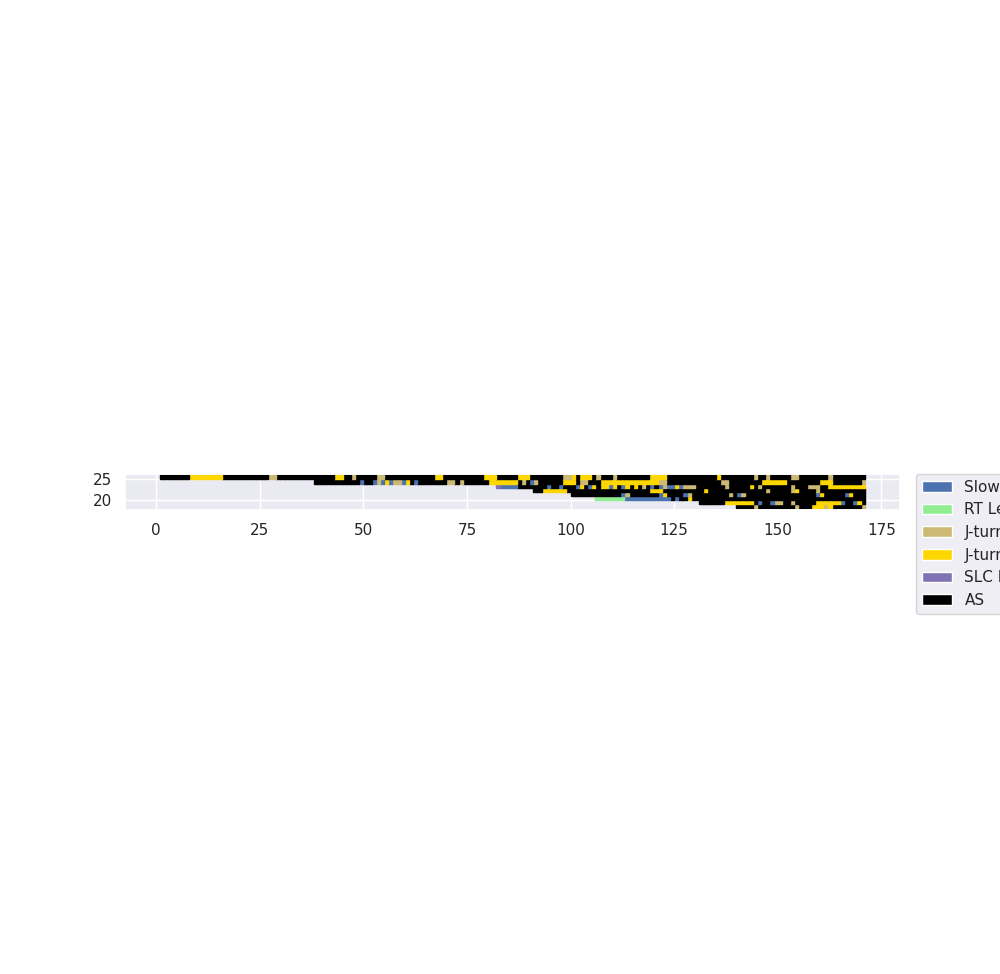
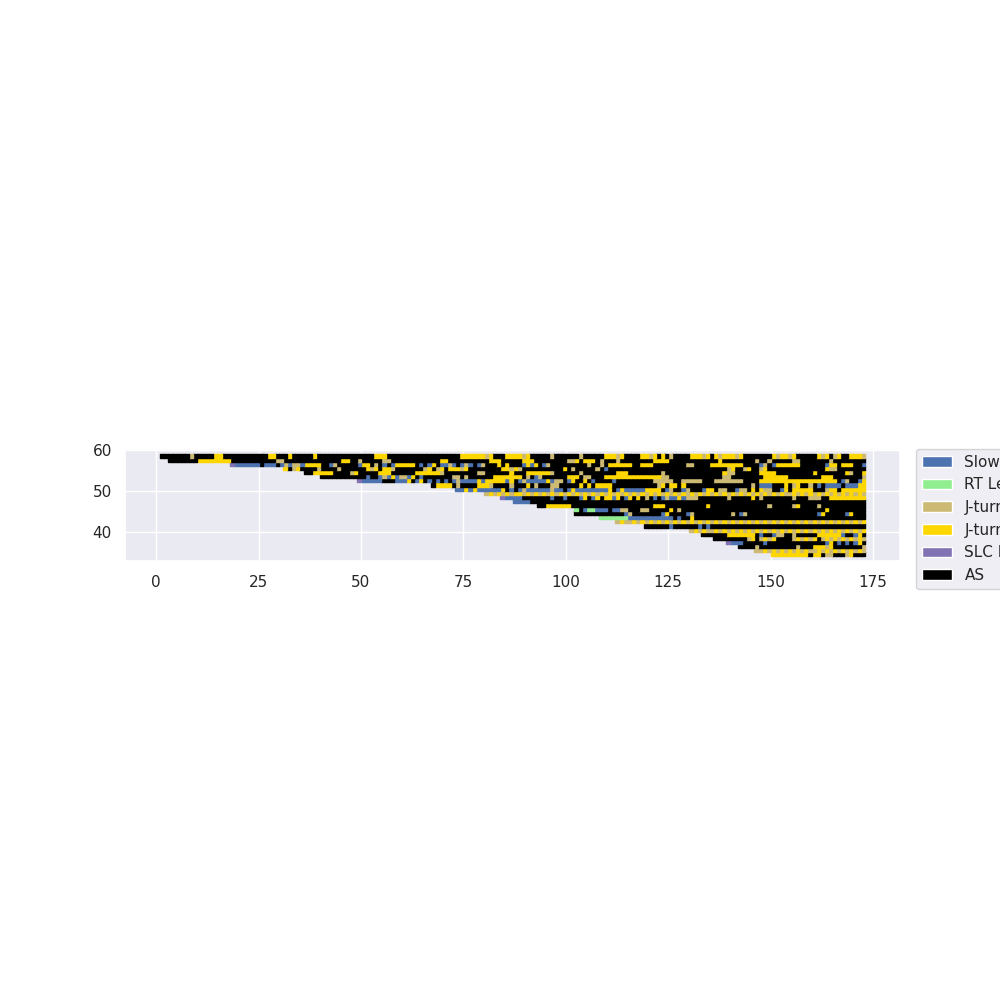
For display

diff --git a/Analysis/Behavioural/Discrete/display_action_sequences_block.py b/Analysis/Behavioural/Discrete/display_action_sequences_block.py
@@ -49,11 +49,11 @@ if __name__ == "__main__":
 
     #                            EXPLORATION SEQUENCES
     capture_sequences_26 =get_capture_sequences(f"dqn_scaffold_26-2", "Behavioural-Data-NaturalisticA", "Naturalistic",
-                                                20, dur=100)
+                                                40, dur=100)
     display_all_sequences(capture_sequences_26, min_length=20, max_length=200, save_figure=True,
                           figure_save_location="Prey-Capture-dqn_scaffold_26-2",)
 
-    exploration_sequences_26 = get_exploration_sequences(f"dqn_scaffold_26-2", "Behavioural-Data-NaturalisticA", "Naturalistic", 20)
+    exploration_sequences_26 = get_exploration_sequences(f"dqn_scaffold_26-2", "Behavioural-Data-NaturalisticA", "Naturalistic", 40)
     display_all_sequences(exploration_sequences_26, min_length=20, max_length=200, save_figure=True,
                           figure_save_location="Exploration-dqn_scaffold_26-2",)
 

diff --git a/Analysis/Video/behaviour_video_construction.py b/Analysis/Video/behaviour_video_construction.py
@@ -77,7 +77,7 @@ class DrawingBoard:
         self.db[rr, cc, :] = colour
 
     def show_consumption(self, fish_angle, x_position, y_position, colour):
-        rr, cc = draw.ellipse(int(y_position), int(x_position), 5, 3, rotation=-fish_angle)
+        rr, cc = draw.ellipse(int(y_position), int(x_position), 10, 6, rotation=-fish_angle)
         self.db[rr, cc, :] = colour
 
     def get_action_colour(self, action):
@@ -170,7 +170,7 @@ def draw_previous_actions(board, past_actions, past_positions, fish_angles, cont
         if consumption_buffer is not None:
             if consumption_buffer[i] == 1:
                 board.show_consumption(fish_angles[i], past_positions[i][0],
-                                       past_positions[i][1], (1, 1, 1))
+                                       past_positions[i][1], (1, 0, 0))
     return board, past_actions, past_positions, fish_angles
 
 
